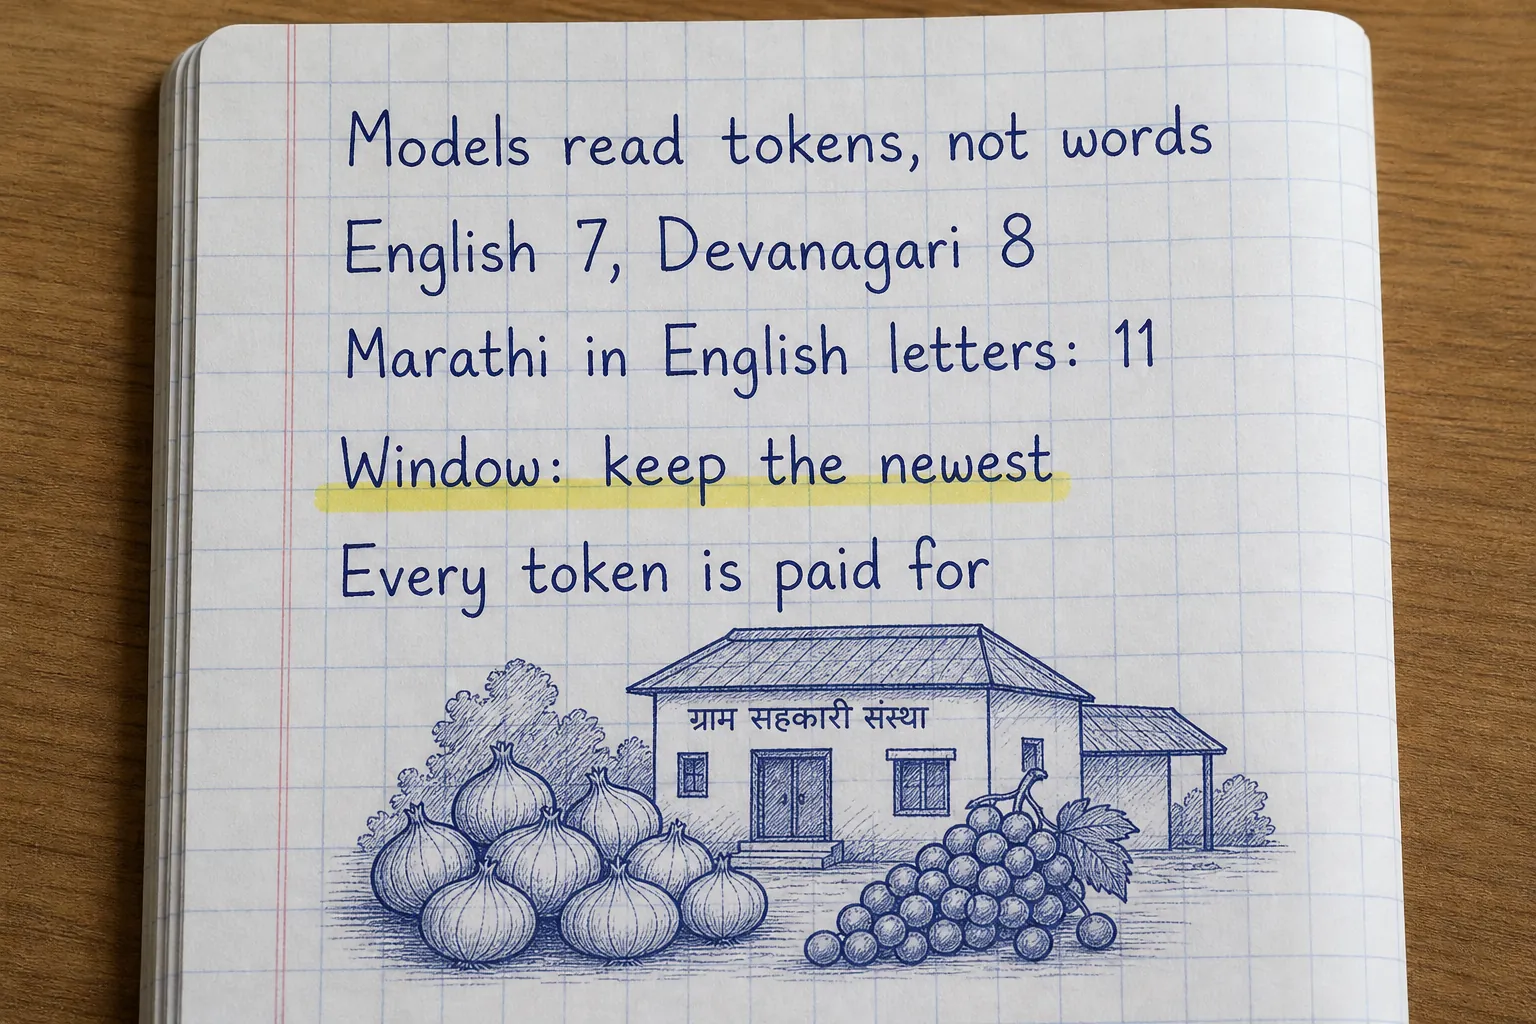
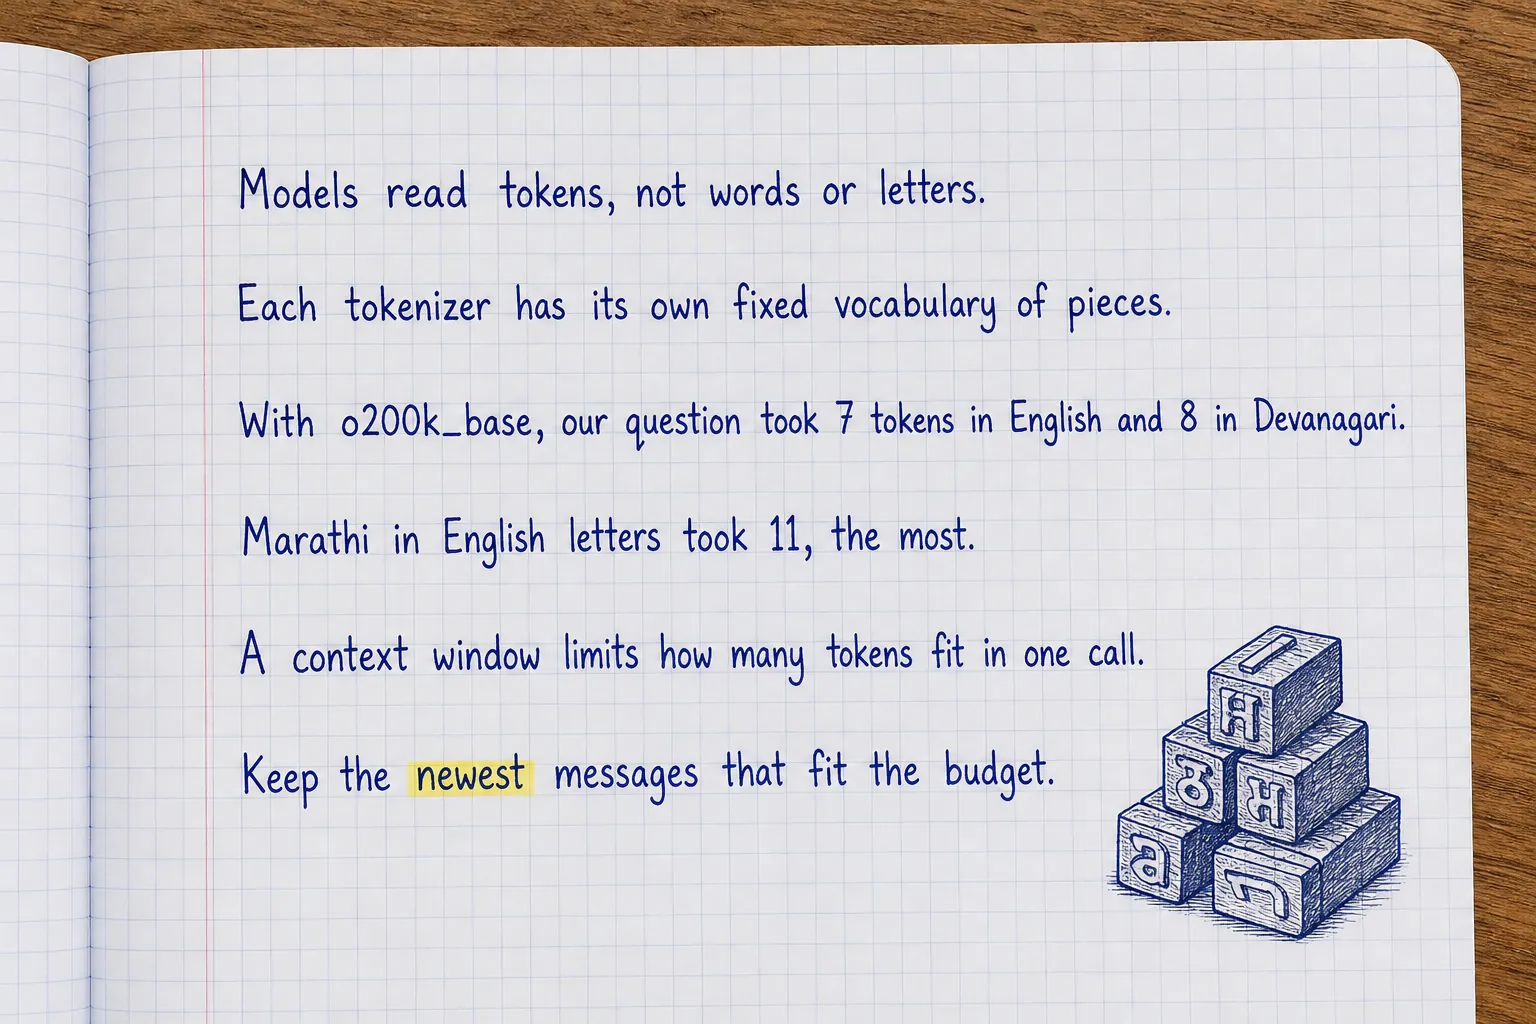
LangChain chapter 2 rewritten: plain and fuller, a still picture of the real tokens, claims checked and corrected

diff --git a/frontend/src/lesson/Diagrams.tsx b/frontend/src/lesson/Diagrams.tsx
@@ -2317,6 +2317,37 @@ function LcAiCircles() {
   );
 }
 
+function LcTokens() {
+  // The real o200k_base pieces of chapter 2's three questions (main.py); "·" marks a piece that starts with a space.
+  const rows: [string, string[]][] = [
+    ["English: 7 tokens", ["What", "·is", "·the", "·onion", "·rate", "·today", "?"]],
+    ["Marathi, Devanagari: 8 tokens", ["आज", "·कां", "द्य", "ाचा", "·भाव", "·काय", "·आहे", "?"]],
+    ["Marathi in English letters: 11 tokens", ["a", "aj", "·k", "andy", "acha", "·bh", "av", "·kay", "·aa", "he", "?"]],
+  ];
+  return (
+    <Svg viewBox="0 0 440 262" label="The same question cut into tokens: English 7, Marathi in Devanagari 8, Marathi typed in English letters 11">
+      {rows.map(([label, parts], r) => {
+        let x = 0;
+        const y = 8 + r * 78;
+        return (
+          <g key={label}>
+            <text className="dg-label" x={0} y={y + 12}>{label}</text>
+            <g className="dg-cells-small">
+              {parts.map((p, i) => {
+                const w = 12 + 8 * [...p].length;
+                const el = <Box key={i} x={x} y={y + 22} w={w} h={30} label={p} tone={r === 2 ? "highlight" : "plain"} code />;
+                x += w + 3;
+                return el;
+              })}
+            </g>
+          </g>
+        );
+      })}
+      <text className="dg-note" x={0} y={252}>One box is one token. · means the piece starts with a space.</text>
+    </Svg>
+  );
+}
+
 function LcAgentLoop() {
   return (
     <SketchSteps
@@ -3824,6 +3855,7 @@ const DIAGRAMS: Record<string, () => JSX.Element> = {
   "lc-agent-loop": LcAgentLoop,
   "lc-memory-threads": LcMemoryThreads,
   "lc-ai-circles": LcAiCircles,
+  "lc-tokens": LcTokens,
   "lc-next-token": LcNextToken,
   "lc-chat-request": LcChatRequest,
   "l4j-streaming": L4jStreaming,

diff --git a/labs/langchain/chapters/02-tokens.md b/labs/langchain/chapters/02-tokens.md
@@ -2,9 +2,9 @@
 Navin will pay for every question it reads and every answer it writes, and the bill is not counted in words or
 characters. It is counted in **tokens**, the pieces a language model really reads.
 
-Many members of the co-op write in Marathi, some in English, many in Marathi typed with English letters ("kanda bhav
-kay aahe?"). Which costs more? Most people guess English is the cheapest. In this chapter you count for real, and the
-answer is not what most people expect.
+Many members of the co-op write in Marathi, some in English, and many in Marathi typed with English letters ("kanda
+bhav kay aahe?"). Which costs the most? Many people guess the Marathi script, because it looks the most complicated.
+In this chapter you count for real, and the answer is not what most people expect.
 
 Tokens also set a hard limit: a model can read only so many at once, its **context window**. A long conversation with
 a farmer must fit, so you also write the code that keeps the newest messages and lets the oldest go.
@@ -15,8 +15,9 @@ Count tokens with the same tokenizer OpenAI's gpt-4o models use, then fit a conv
 :::
 
 :::step{type=concept title="Tokens: pieces of text, numbered" file="02-tokens/tokens.py" line="1-14"}
-A **tokenizer** cuts text into pieces from a fixed vocabulary and replaces each piece with its number. OpenAI's
-`o200k_base` vocabulary (used by gpt-4o and gpt-4o-mini, the model behind Navin) has about 200,000 pieces:
+A **tokenizer** cuts text into pieces from a fixed list of pieces, its **vocabulary**, and replaces each piece with its
+number in that list. OpenAI's `o200k_base` vocabulary (used by gpt-4o and gpt-4o-mini, the model behind Navin) has
+200,019 entries:
 
 ```python
 import tiktoken
@@ -24,19 +25,32 @@ ENCODING = tiktoken.get_encoding("o200k_base")
 ENCODING.encode("What is the onion rate today?")   # a list of 7 numbers
 ```
 
-Common words are one token each; rare words are cut into several. `pieces(text)` (already written) decodes each number
-back to its text, so you can see the cuts.
+- `tiktoken` is OpenAI's tokenizer library; it runs on your machine, with no model call.
+- `get_encoding("o200k_base")` loads that vocabulary.
+- `encode(text)` returns the token numbers. Their count is what the model reads, and what you pay for.
+
+Common words are one token each; rarer words are cut into several. `pieces(text)` (already written) turns each number
+back into its text, so you can see the cuts:
+
+:::diagram{name="lc-tokens"}
+The real pieces of the same question, three ways, from this chapter's `main.py`.
+:::
 
 Why not whole words? A vocabulary of every word in every language would be enormous and would still miss new words,
 names and typos. Pieces can spell anything.
 
-| Rule of thumb (English) | Tokens |
+Rules of thumb for English with this tokenizer (we measured 131 tokens per 100 words on chapter 1's story):
+
+| English text | Tokens |
 |---|---|
 | One short word | about 1 |
 | 100 words | about 130 |
-| One page of text | about 600 to 800 |
+| One page (about 500 words) | about 650 |
 
-A printer once set a page from a case of small metal pieces: letters, common pairs and spaces, reused for every word. A tokenizer's vocabulary is the same idea, with about 200,000 pieces instead of a few hundred.
+Other languages and other tokenizers give other numbers; the only reliable way is to count.
+
+A printer once built every page from a fixed set of small metal pieces, reused for every word. A tokenizer also works
+from a fixed set of pieces, about 200,000 of them here.
 
 :::photo{src="/lesson-images/langchain/metal-type.webp" alt="Close-up of metal movable type letters for printing, set side by side in a composing stick" credit="Willi Heidelbach" license="CC BY 2.5" source="https://commons.wikimedia.org/wiki/File%3AMetal_movable_type.jpg"}
 Metal movable type for letterpress printing.
@@ -50,10 +64,11 @@ very long sequences for one sentence).
 :::
 
 In **1994** Philip Gage described **byte pair encoding** (BPE) as a way to compress files: repeatedly replace the most
-common pair of symbols with a new symbol. In **2016** Rico Sennrich and colleagues used the same idea to cut words into
-pieces for translation models. OpenAI's GPT-2 (**2019**) applied it to bytes, so any text in any language can be
-encoded. OpenAI published its fast tokenizer as the **tiktoken** library, and the `o200k_base` vocabulary arrived with
-**GPT-4o** in **2024**, with many more pieces for languages other than English.
+common pair of symbols with a new symbol. In **2016** Rico Sennrich, Barry Haddow and Alexandra Birch used the same
+idea to cut rare words into pieces for translation models. OpenAI's GPT-2 (**2019**) applied it to bytes, the raw
+numbers a computer stores text as, so any text in any language can be encoded. OpenAI published its fast tokenizer as
+the **tiktoken** library in 2022, and the `o200k_base` vocabulary arrived with **GPT-4o** in **2024**, with many more
+pieces for languages other than English.
 
 :::solved
 **Any text, a fixed vocabulary.** No word is ever unknown: anything can be spelled from pieces. The price is that the
@@ -69,18 +84,20 @@ same meaning costs a different number of tokens in different languages and spell
 :::
 
 :::step{type=task task=count_tokens title="Your turn: count tokens" file="02-tokens/tokens.py" line="7-9"}
-Finish `count_tokens(text)`: return the length of `ENCODING.encode(text)`.
+Finish `count_tokens(text)`: return the number of tokens, `len(ENCODING.encode(text))`.
+
+The usual slip: returning `len(text)` (characters) or `len(text.split())` (words). Neither is what the model counts.
 
 Press **Check**.
 :::
 
 :::step{type=concept title="The context window" file="02-tokens/tokens.py" line="17-20"}
 Everything a model reads in one call (the instructions, the facts, the whole conversation so far, the new question)
-must fit in its **context window**, and its answer must fit too. gpt-4o-mini's window is 128,000 tokens, but you
-rarely want to fill it: every token sent is paid for on every call.
+must fit in its **context window**. For gpt-4o-mini that is 128,000 tokens, and one answer can be at most 16,384
+tokens long. You rarely want to fill the window: every token sent is paid for on every call.
 
-So chat applications keep a **window** of the conversation: the newest messages that fit a budget, oldest dropped
-first.
+So chat applications keep a **window** of the conversation: the newest messages that fit a **budget** (a number of
+tokens you choose), oldest dropped first. The real counts for this chapter's conversation, budget 25:
 
 :::trace{title="fit_window(chat, 25), walking backwards"}
 | Message (newest first) | Tokens | Used so far | Kept? |
@@ -95,8 +112,18 @@ Notice what is lost: "I grow onions on 3 acres". Windows forget, and chapter 15 
 :::
 
 :::step{type=task task=fit_window title="Your turn: fit the window" file="02-tokens/tokens.py" line="17-20"}
-Finish `fit_window(messages, budget)`: walk from the last message backwards, add each one while the total stays within
-the budget, stop at the first that does not fit, and return the kept messages in their original order.
+Finish `fit_window(messages, budget)`:
+
+1. Walk the messages from the last one backwards (`reversed(messages)`), keeping a running total of tokens.
+2. If adding the next message would go over the budget, stop.
+3. Otherwise keep it and add its tokens to the total.
+4. Return the kept messages in their original order (reverse the kept list back).
+
+The usual slips:
+
+- Skipping a message that does not fit and carrying on with older ones. That keeps a gap in the conversation, and
+  the model then reads an old message as if it came just before the new one. Stop at the first one that does not fit.
+- Returning the messages newest first.
 
 ```bash run
 cd /workspace/02-tokens && python main.py
@@ -105,7 +132,7 @@ cd /workspace/02-tokens && python main.py
 Press **Check**.
 :::
 
-:::step{type=try title="Which language is cheapest?"}
+:::step{type=try title="Which way of writing is cheapest?"}
 ```text
 $ python main.py
   7 tokens  ['What', ' is', ' the', ' onion', ' rate', ' today', '?']
@@ -115,13 +142,13 @@ $ python main.py
 fits in 25 tokens: ['My cold storage booking is 40 crates.', 'Can I add 20 more crates next week?']
 ```
 
-The same question three ways. English: 7 tokens, one per word. Marathi in Devanagari: 8, because `o200k_base` has
-pieces like `भाव` (price) and `काय` (what). Marathi typed with English letters: **11**, the most expensive, because
+The same question three ways. English: 7 tokens, one per word. Marathi in Devanagari: only 8, because `o200k_base`
+has pieces like `भाव` (price) and `काय` (what). Marathi typed with English letters: **11**, the most expensive, because
 "kandyacha" is not a common English piece and gets cut into `k`, `andy`, `acha`.
 
-The surprise is that the way most members actually type is the one that costs most, about 40% more than English. On
-Navin's scale that is a rounding error per question; on millions of questions it is a line in a budget. Measure, do not
-assume.
+The surprise is that the way many members actually type is the one that costs the most: 11 tokens against 7, about 57%
+more than English. On Navin's scale that is a tiny amount per question; on millions of questions it is a line in a
+budget. Measure, do not assume.
 :::
 
 :::step{type=predict title="Guess first"}
@@ -132,7 +159,8 @@ A conversation grows to 200,000 tokens and the model's window is 128,000. What m
 - [x] Send less: drop or summarise old messages so the request fits
 - [ ] Split the answer into two calls
 :::explain
-A request larger than the window is refused. Windows (this chapter) and summaries (chapter 22) are the two common fixes.
+A request larger than the window is refused with an error. Windows (this chapter) and summaries (chapter 22) are the
+two common fixes.
 :::
 :::
 
@@ -164,8 +192,9 @@ The model counts too, and bills you for it. Counting first lets you decide what 
 **Different models, different tokenizers.** Claude, Gemini and Llama each have their own vocabulary, so the same text is
 a different number of tokens for each. Count with the tokenizer of the model you call.
 
-**Output tokens.** The answer is tokens too, usually priced at about four times an input token (chapter 9). A long
-answer costs more than a long question.
+**Output tokens cost more.** The answer is tokens too. For gpt-4o-mini, OpenAI's list price is $0.15 per million input
+tokens and $0.60 per million output tokens (November 2026): an output token costs four times an input token. Other
+models have other prices and other ratios. Chapter 9 works out what Navin's questions cost.
 
 **The usage the API reports.** Every model reply says how many tokens it used. Chapter 6 reads that number from the
 real API, and it includes a few tokens of message formatting that `count_tokens` does not see.
@@ -174,14 +203,14 @@ real API, and it includes a few tokens of message formatting that `count_tokens`
 :::step{type=recap}
 You can now:
 
-- explain what tokens are and why tokenizers cut text into pieces;
+- explain what tokens and a tokenizer's vocabulary are, and why tokenizers cut text into pieces;
 - count tokens with tiktoken and `o200k_base`;
 - keep the newest messages within a token budget;
 - show, with real numbers, that the same question costs different amounts in different scripts.
 
 Next, chapter 3: embeddings. Meaning as a list of numbers, so a program can find "kanda bhav" from "onion rate".
 
-:::photo{src="/lesson-images/langchain/lc-02-notes.webp" alt="Handwritten notes about tokens: Models read tokens, not words; English 7, Devanagari 8; Marathi in English letters: 11; Window: keep the newest; Every token is paid for" ai="true"}
+:::photo{src="/lesson-images/langchain/lc-02-notes.webp" alt="Handwritten notes about tokens: Models read tokens, not words or letters. Each tokenizer has its own fixed vocabulary of pieces. With o200k_base, our question took 7 tokens in English and 8 in Devanagari. Marathi in English letters took 11, the most. A context window limits how many tokens fit in one call. Keep the newest messages that fit the budget." ai="true"}
 One page of notes for this chapter.
 :::
 :::

diff --git a/CHANGELOG.md b/CHANGELOG.md
@@ -1,5 +1,16 @@
 # Changelog
 
+## 25 November: LangChain chapter 2 rewritten (easy, a little detailed, checked)
+
+- Tokenizer, vocabulary, bytes, context window and budget are explained where they first appear; the tiktoken code is
+  read line by line; tasks list their steps and the usual slips.
+- A new still picture, `lc-tokens`: the real o200k_base pieces of the same question in English (7), Devanagari (8)
+  and Marathi in English letters (11).
+- Checked by running the solution in a lab machine: the counts, the trace (10, 9, 8, 10 tokens), the vocabulary
+  (200,019 entries) and 131 tokens per 100 English words on chapter 1's story. Corrected: 11 against 7 is about 57%
+  more, not 40%; the story no longer says people guess English is cheapest (it is); the output limit (16,384 tokens)
+  is added; the price ratio is dated (gpt-4o-mini $0.15 and $0.60 per million, November 2026). A new notes page.
+
 ## 25 November: LangChain chapter 1 rewritten (easy, a little detailed, checked)
 
 - Language model, neural network, layers, threshold and accuracy are explained where they first appear; the worked
